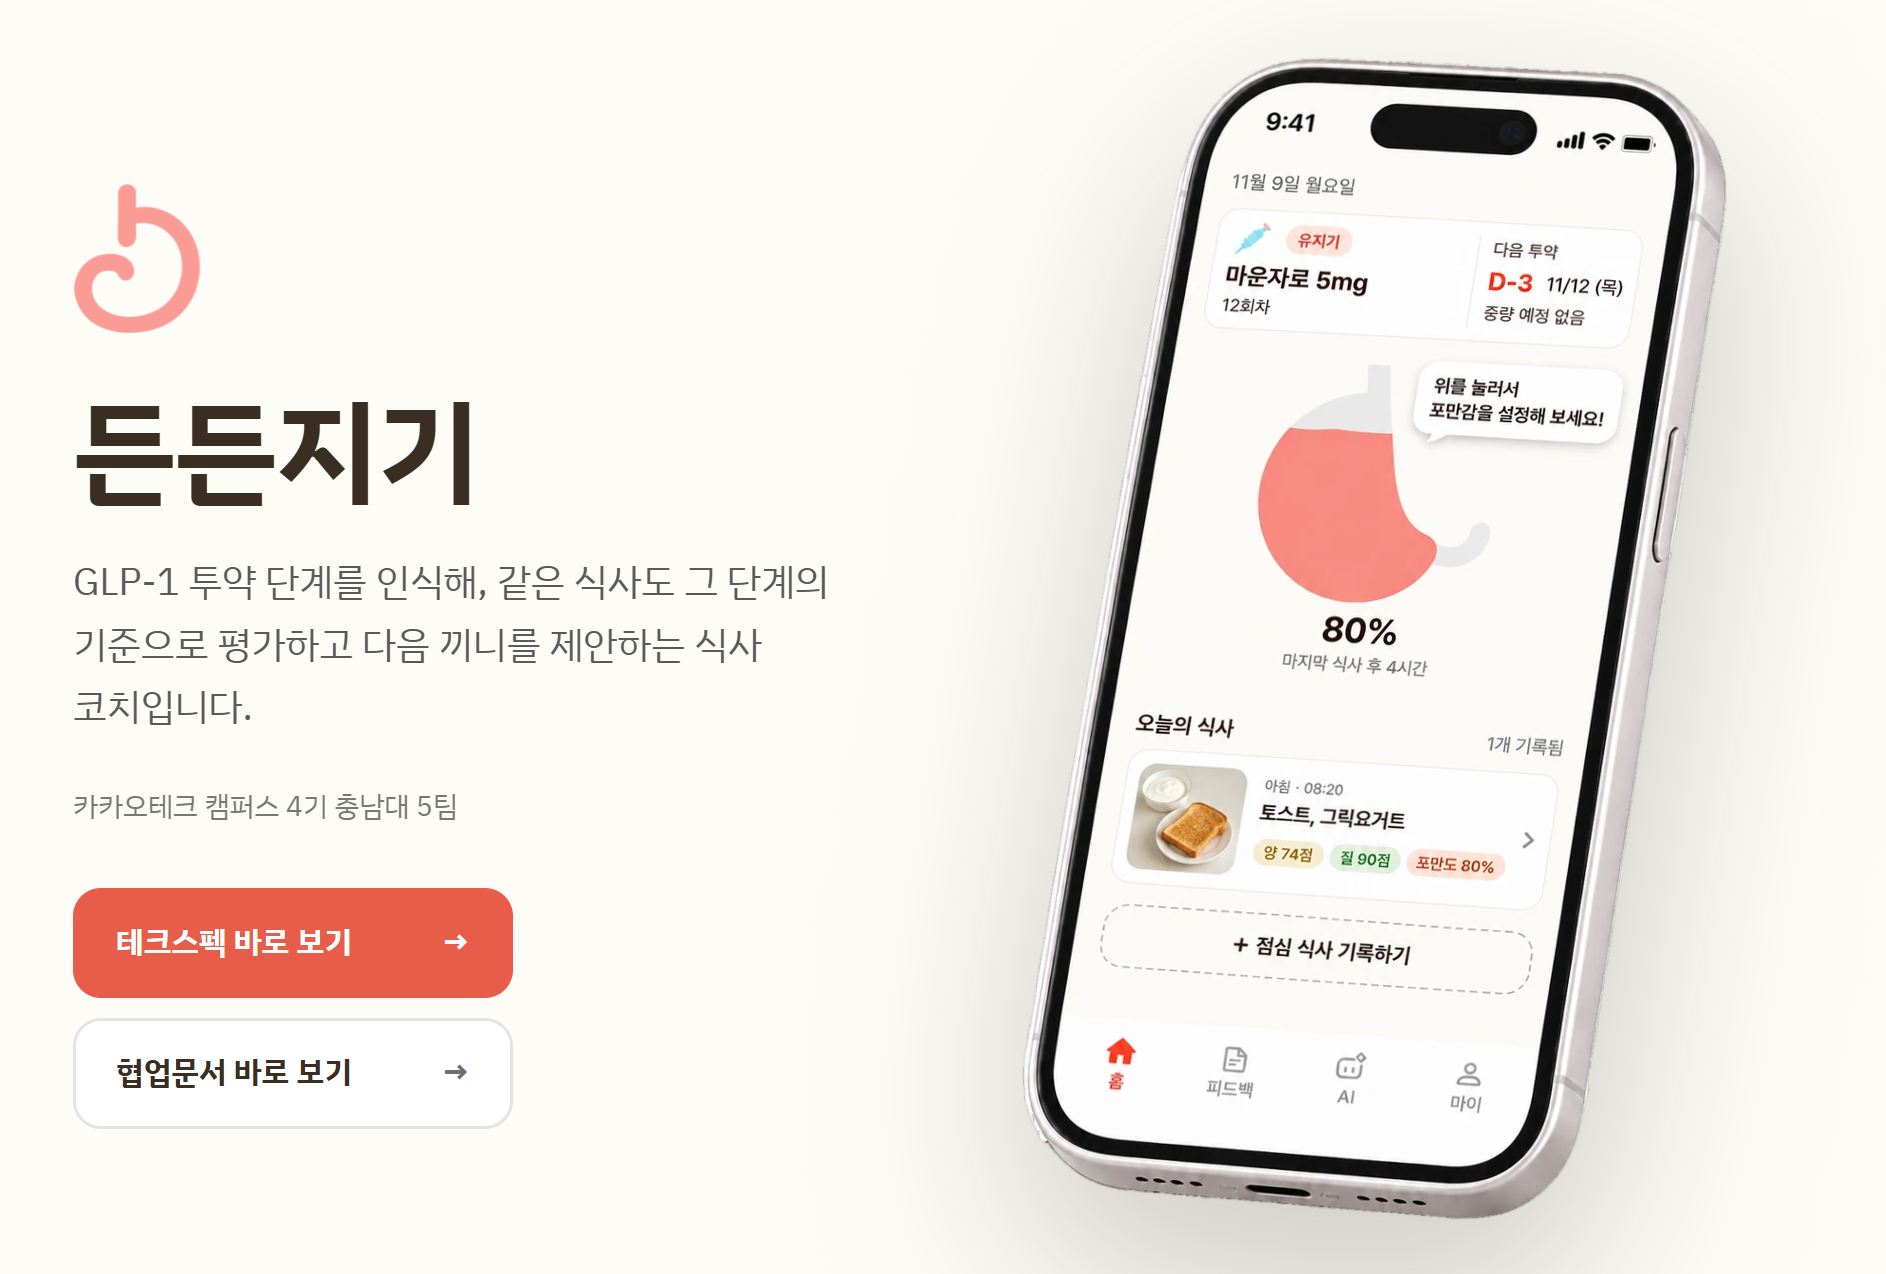
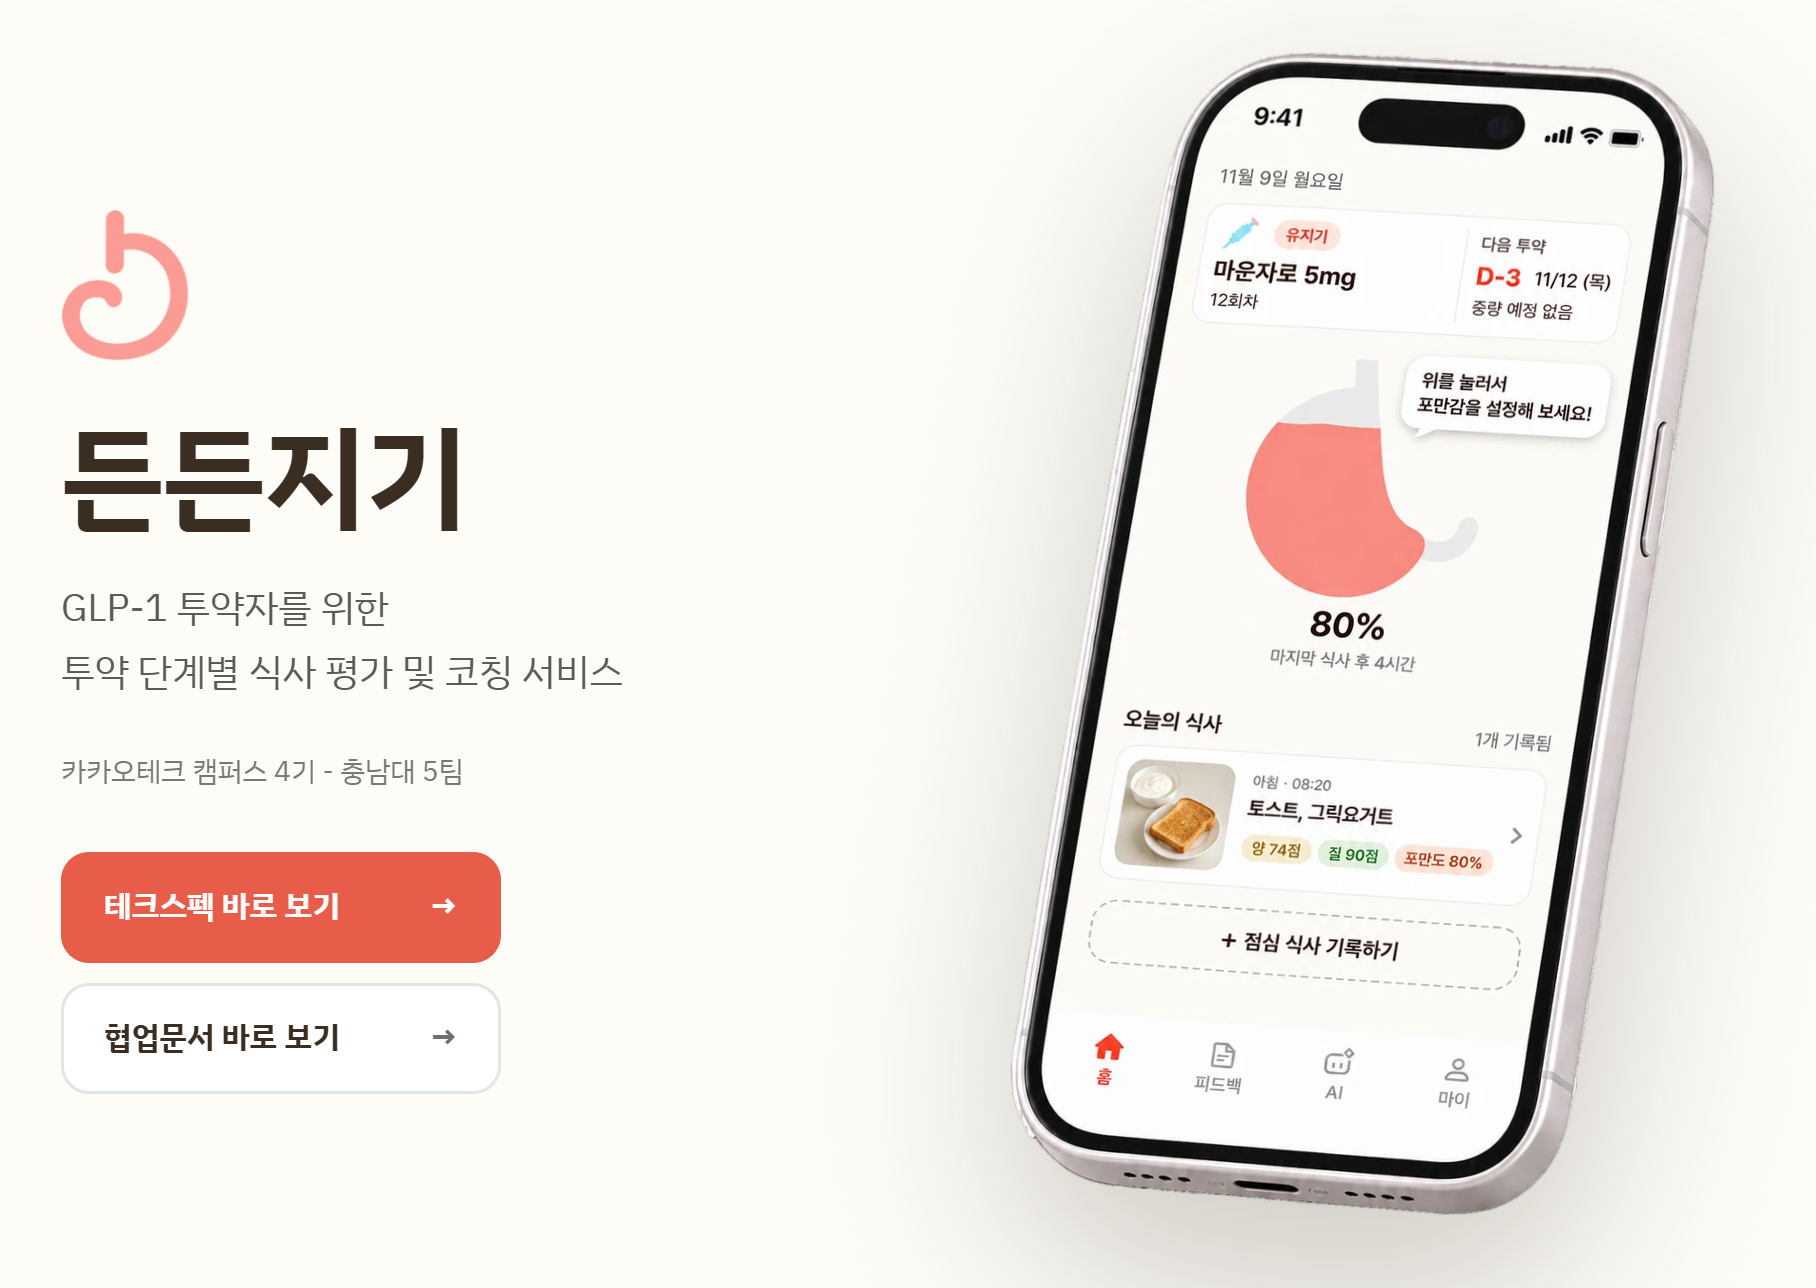
[COMMON] docs: 루트 README 에 Pages 첫 화면 이미지와 바로 가기에 대한 수정

diff --git a/README.md b/README.md
@@ -3,7 +3,7 @@
 
 <p align="center">
   <a href="https://kakaotechcampus-4.github.io/ktc4-chungnam-5/project/">
-    <img src="docs/assets/readme-hero.png" alt="든든지기 — GLP-1 투약 단계를 인식해 같은 식사도 그 단계의 기준으로 평가하고 다음 끼니를 제안하는 식사 코치" width="860">
+    <img src="docs/assets/readme-hero.png" alt="든든지기 — GLP-1 투약자를 위한 투약 단계별 식사 평가 및 코칭 서비스" width="860">
   </a>
 </p>
 
